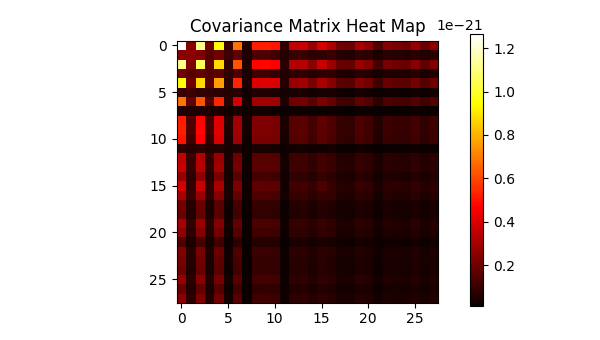
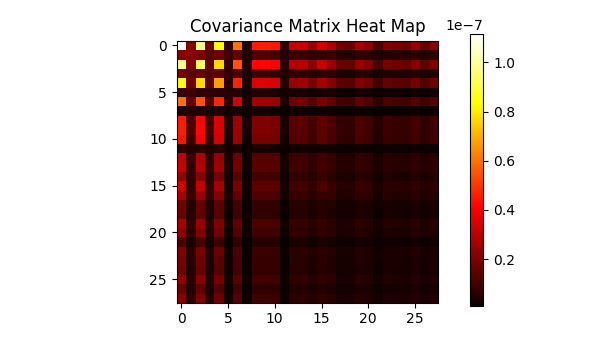
Changed resolution of maps from 2048x2048 to 37x37 in gauss_SNR_nois

diff --git a/Parallel Gaussianization/Noisy Maps/gauss_SNR_nois.py b/Parallel Gaussianization/Noisy Maps/gauss_SNR_nois.py
@@ -63,7 +63,7 @@ def power1D(image, num_bins):
     
     return bins[1:], radial_prof
 
-def PowerSpectrum(psd2D, sizedeg = 12.25, size = 2048, bins = 50):
+def PowerSpectrum(psd2D, sizedeg = 12.25, size = 37, bins = 50):
     
     ells, psd1D = power1D(psd2D, num_bins = 50)
     
@@ -103,7 +103,7 @@ def toPowspec(image_num):
     image = gaussianizepdf(image)
     F = fftpack.fftshift(fftpack.fft2(image))
     psd2D = np.abs(F)**2
-    ells, powspec = PowerSpectrum(psd2D, sizedeg = 12.25, size = 2048, bins = 50)
+    ells, powspec = PowerSpectrum(psd2D, sizedeg = 12.25, size = 37, bins = 50)
 
     return ells, powspec
 
